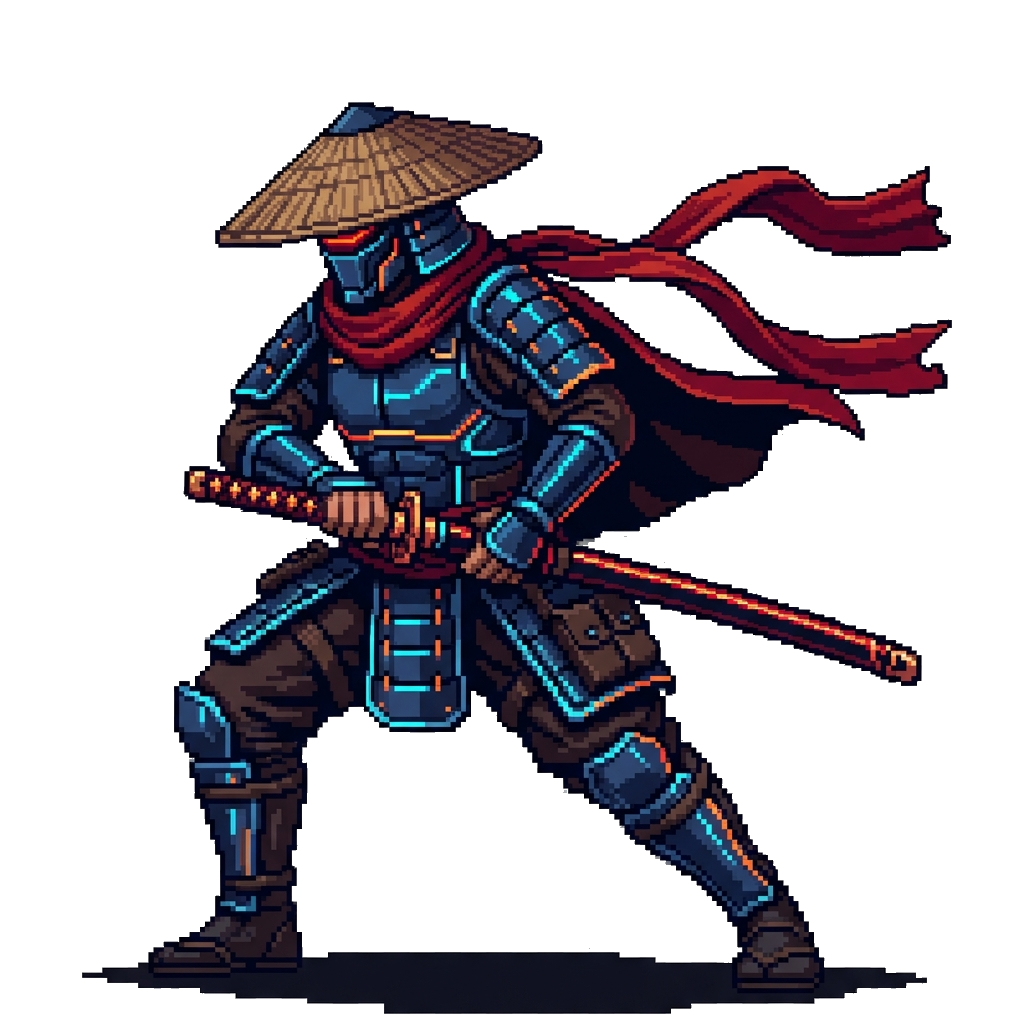
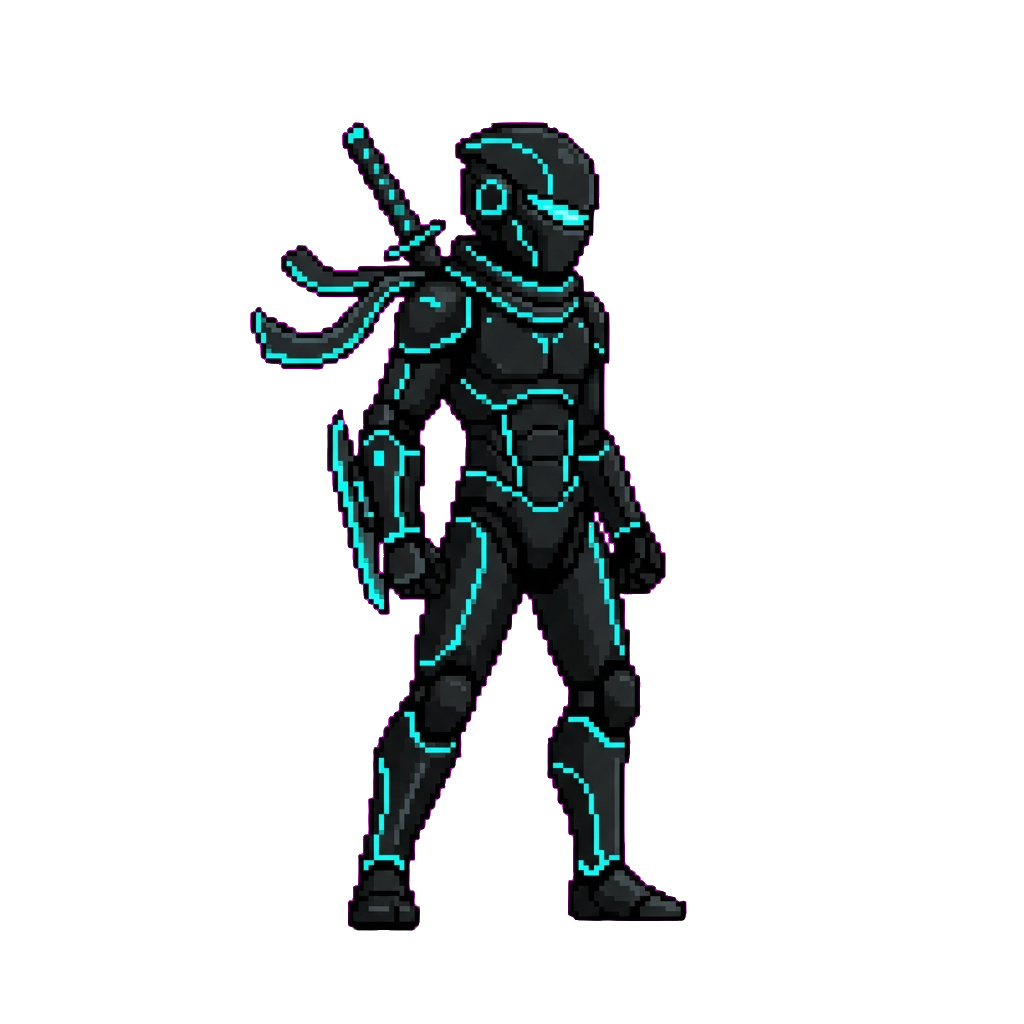
优化对战卡片

diff --git a/src/App.tsx b/src/App.tsx
@@ -237,9 +237,13 @@ const NeuralPicker = ({ label, items, selected, onSelect, unlockedItems }: { lab
 interface BattleRoundRecord { round: number; pDmg: number; eDmg: number; pRemainingHp: number; eRemainingHp: number; }
 
 class StickmanRenderer {
-  private ctx: CanvasRenderingContext2D; private time: number = 0; public effects: any[] = []; private nextEffectId: number = 0;
+  private ctx: CanvasRenderingContext2D; 
+  public assetsLoaded: boolean = false;
+  public gameState: string = 'lobby'; 
+  public effects: any[] = [];
+  private nextEffectId: number = 0;
   private assets: Record<string, HTMLImageElement> = {};
-  private assetsLoaded: boolean = false;
+  private time: number = 0;
 
   constructor(ctx: CanvasRenderingContext2D) {
     this.ctx = ctx;
@@ -248,10 +252,16 @@ class StickmanRenderer {
 
   private loadAssets() {
     const load = (name: string, url: string) => {
-      const img = new Image(); img.src = url;
+      const img = new Image(); 
+      img.src = url;
       img.onload = () => {
         this.assets[name] = img;
         if (Object.keys(this.assets).length >= 5) this.assetsLoaded = true;
+      };
+      img.onerror = () => {
+        console.error(`❌ Asset failed to load: ${url}`);
+        // 即使加载失败，也标记一个空对象，避免无限等待
+        this.assets[name] = new Image();
       };
     };
 
@@ -290,16 +300,13 @@ class StickmanRenderer {
     }
 
     const img = this.assets[frameName];
-    if (img) {
+    // 确保 img 已加载且有实际尺寸
+    if (img && img.width > 0) {
       // 呼吸感逻辑：首页慢速平稳，战场根据敏捷略微加快
-      const breathFreq = pose === 'idle' ? (isP && gameState === 'lobby' ? 1.2 : 3) : 3;
-      const breath = (pose === 'idle') ? Math.sin(t * breathFreq) * 0.03 : 0;
+      const breathFreq = pose === 'idle' ? (isP && this.gameState === 'lobby' ? 1.2 : 3) : 3;
+      const breath = (pose === 'idle') ? Math.sin(t * breathFreq) * 0.015 : 0;
 
       ctx.save();
-      if (!isP) {
-        ctx.scale(-1, 1);
-      }
-
       // 绘制带呼吸效果的资产
       const w = 96 * (1 - breath * 0.5);
       const h = 96 * (1 + breath);
@@ -309,8 +316,25 @@ class StickmanRenderer {
 
       ctx.restore();
     } else {
+      // Fallback: 如果图片未加载或加载失败，绘制一个显眼的占位符火柴人
+      ctx.save();
+      if (!isP) ctx.scale(-1, 1);
+      
+      // 躯干
       ctx.fillStyle = isElite ? '#f43f5e' : '#6366f1';
       ctx.fillRect(-15, -60, 30, 60);
+      
+      // 头部
+      ctx.beginPath();
+      ctx.arc(0, -75, 15, 0, Math.PI * 2);
+      ctx.fill();
+      
+      // 提示文字
+      ctx.fillStyle = '#ffffff';
+      ctx.font = '10px sans-serif';
+      ctx.fillText('LOADING', -20, -100);
+      
+      ctx.restore();
     }
   }
 
@@ -744,19 +768,21 @@ export default function App() {
     let frame: number;
     // --- 统一渲染循环 ---
     const loop = () => {
-      // 1. 战场渲染逻辑
-      if (canvasRef.current && gameState === 'battle') {
+      // 1. 战场渲染逻辑 (包含战术调整阶段)
+      if (canvasRef.current && (gameState === 'battle' || gameState === 'tactics')) {
         const ctx = canvasRef.current.getContext('2d')!;
         if (!rendererRef.current) rendererRef.current = new StickmanRenderer(ctx);
         const r = rendererRef.current;
-        // 动态绑定最新画布上下文，防止组件重新挂载后渲染到旧的离线画布上
+        // 动态同步状态
+        r.gameState = gameState;
+        // 动态绑定最新画布上下文
         (r as any).ctx = ctx;
         r.advance(); r.drawBackground(field);
-        const pW = ITEMS.weapons.find(w => w.name === player.equipment.weapon);
-        const eW = ITEMS.weapons.find(w => w.name === enemy.equipment.weapon);
-        // 调用升级：x, y, pose, isFlip, agility, equipment, gameState, isMultiHit
-        r.drawCharacter(240, 280, currentPose.player, false, player.stats.agility, player.equipment, gameState, activeSkill?.name === '幻影连击' && activeSkill.isP);
-        r.drawCharacter(560, 280, currentPose.enemy, true, enemy.stats.agility, enemy.equipment, gameState, activeSkill?.name === '幻影连击' && !activeSkill.isP);
+        
+        // 调用升级：x, y, pose, isFlip, agility, weaponIcon, hasGhost, isElite
+        // 修正：根据新素材朝向(右)，玩家(左)不翻转(false)面向右侧，对手(右)翻转(true)面向左侧
+        r.drawCharacter(240, 280, currentPose.player, false, player.stats.agility || 10, player.equipment.weapon, false, Boolean(activeSkill?.name === '幻影连击' && activeSkill.isP));
+        r.drawCharacter(560, 280, currentPose.enemy, true, enemy.stats.agility || 10, enemy.equipment.weapon, false, Boolean(activeSkill?.name === '幻影连击' && !activeSkill.isP));
         r.renderEffects();
       }
 
@@ -1009,14 +1035,14 @@ export default function App() {
       )}
 
       {/* 2. MAIN CONTENT ROUTER */}
-      {(gameState === 'battle' || gameState === 'victory' || gameState === 'defeat') ? (
+      {(gameState === 'battle' || gameState === 'tactics' || gameState === 'victory' || gameState === 'defeat') ? (
         /* --- PERSISTENT BATTLE HUD --- */
         <div className="fixed inset-0 bg-slate-950 flex flex-col overflow-hidden text-white font-mono z-[500]">
 
 
           {/* TOP HUD */}
           <div className="cyber-hud border-b-4 border-slate-900">
-            <div className="hud-unit">
+            <div className="hud-unit pl-4">
               <img src="/assets/p_port.png" className="portrait-box" alt="P" />
               <div className="bar-stack">
                 <div className="unit-name text-cyan-400 cn-text">玩家 / {player.username}</div>
@@ -1028,12 +1054,12 @@ export default function App() {
                   <span className="opacity-30">|</span>
                   <span className="text-indigo-400">{player.equipment.skill}</span>
                 </div>
-                <div className="flex gap-2 w-[480px]">
+                <div className="flex gap-2 w-[400px]">
                   <div className="flex-1 pixel-bar-container !mb-0">
                     <div className="pixel-bar-fill bg-emerald-500" style={{ width: `${(player.health / player.maxHealth) * 100}%` }} />
                     <span className="bar-label cn-text">HP {player.health}/{player.maxHealth}</span>
                   </div>
-                  <div className="w-[200px] pixel-bar-container !mb-0">
+                  <div className="w-[180px] pixel-bar-container !mb-0">
                     <div className="pixel-bar-fill bg-indigo-500 shadow-[0_0_15px_#6366f1]" style={{ width: '100%' }} />
                     <span className="bar-label cn-text">EP 能量 100%</span>
                   </div>
@@ -1049,7 +1075,7 @@ export default function App() {
               </div>
             </div>
 
-            <div className="hud-unit flex-row-reverse">
+            <div className="hud-unit flex-row-reverse pr-4">
               <img src="/assets/e_port.png" className="portrait-box border-rose-900" alt="E" />
               <div className="bar-stack text-right">
                 <div className="unit-name text-rose-400 cn-text">目标 / {enemy.username}</div>
@@ -1061,12 +1087,12 @@ export default function App() {
                   <span className="opacity-30">|</span>
                   <span className="text-rose-400">{enemy.equipment.skill}</span>
                 </div>
-                <div className="flex flex-row-reverse gap-2 w-[480px]">
+                <div className="flex flex-row-reverse gap-2 w-[400px]">
                   <div className="flex-1 pixel-bar-container !mb-0">
                     <div className="pixel-bar-fill bg-rose-600" style={{ width: `${(enemy.health / enemy.maxHealth) * 100}%` }} />
                     <span className="bar-label left-2 right-auto cn-text">HP {enemy.health}/{enemy.maxHealth}</span>
                   </div>
-                  <div className="w-[200px] pixel-bar-container !mb-0">
+                  <div className="w-[180px] pixel-bar-container !mb-0">
                     <div className="pixel-bar-fill bg-sky-500 shadow-[0_0_15px_#0ea5e9]" style={{ width: '100%' }} />
                     <span className="bar-label left-2 right-auto cn-text">盾 状态条 100%</span>
                   </div>
@@ -1665,8 +1691,8 @@ export default function App() {
         .pixel-button.danger { background: #ef4444; box-shadow: 4px 4px 0px #991b1b; }
 
         /* HUD 文字标准化 */
-        .cyber-hud { display: flex; justify-content: space-between; align-items: flex-start; padding: 1.5rem 2.5rem; gap: 2rem; background: linear-gradient(to bottom, #020617, transparent); }
-        .hud-unit { display: flex; gap: 24px; width: 33%; }
+        .cyber-hud { display: flex; justify-content: space-between; align-items: flex-start; padding: 1.5rem 3.5rem; gap: 2rem; background: linear-gradient(to bottom, #020617, transparent); }
+        .hud-unit { display: flex; gap: 24px; flex: 1; min-width: 0; }
         .portrait-box { width: 84px; height: 84px; border: 4px solid #1e293b; box-shadow: 0 0 30px rgba(0, 242, 255, 0.15); image-rendering: pixelated; background: #000; }
         .bar-stack { flex: 1; display: flex; flex-direction: column; gap: 10px; }
         .unit-name { font-weight: 900; font-size: 14px; text-transform: uppercase; letter-spacing: 1px; color: #fff; }

diff --git a/scratch/remove_bg.py b/scratch/remove_bg.py
@@ -1,0 +1,21 @@
+from PIL import Image
+import sys
+
+def make_transparent(img_path, output_path):
+    img = Image.open(img_path).convert("RGBA")
+    datas = img.getdata()
+
+    newData = []
+    # Magenta is roughly (255, 0, 255)
+    # We allow some tolerance for compression artifacts
+    for item in datas:
+        if item[0] > 200 and item[1] < 100 and item[2] > 200:
+            newData.append((255, 255, 255, 0))
+        else:
+            newData.append(item)
+
+    img.putdata(newData)
+    img.save(output_path, "PNG")
+
+if __name__ == "__main__":
+    make_transparent(sys.argv[1], sys.argv[2])